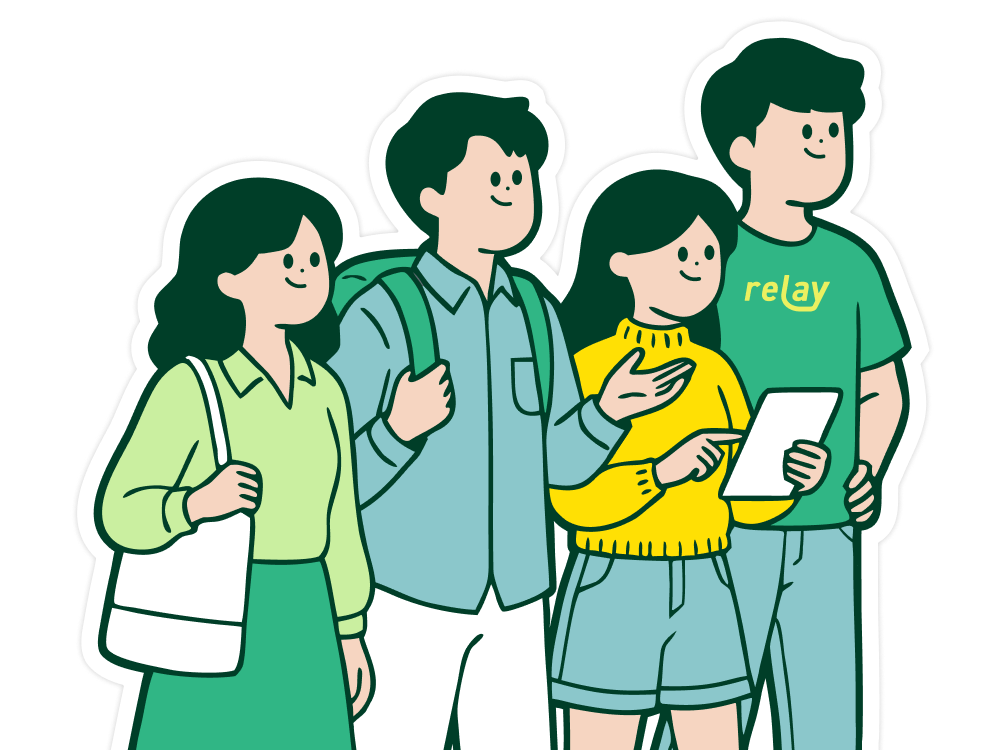
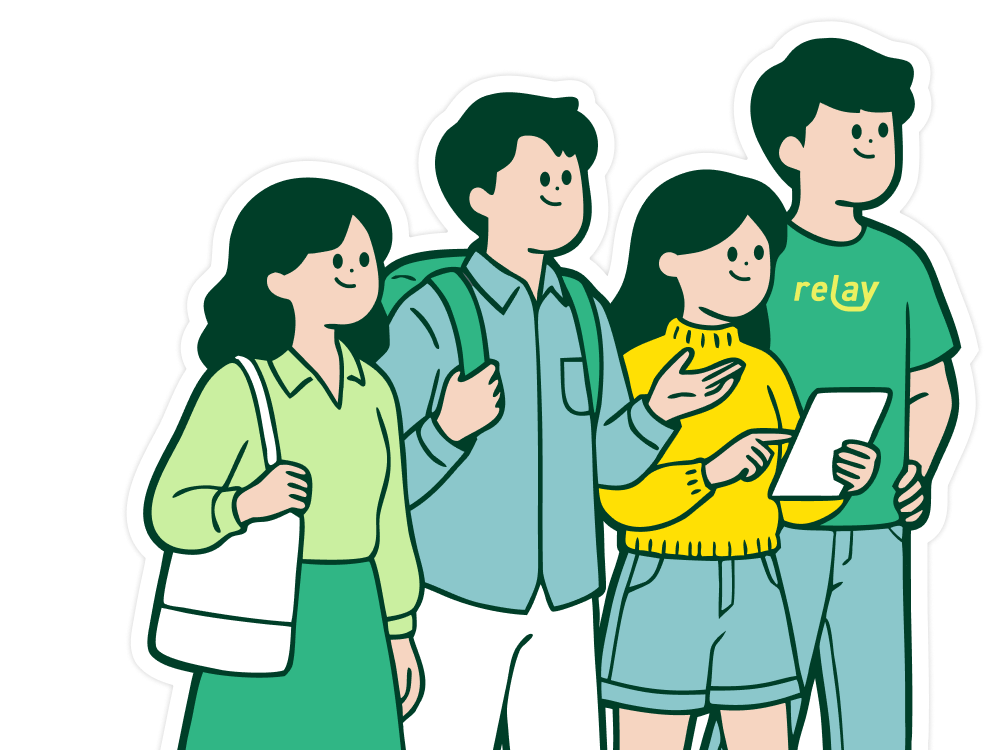
feat(hero): ship the title as hero-center.svg
Replace the live-rendered <h1> title with the official SVG that Figma
produced (examples/assets/hero-center.svg, 563 × 131, paths only,
fill #003E28). This guarantees pixel-for-pixel match with the design
file — no font substitution, no kerning drift, no need to keep
font-weight / letter-spacing in sync with Figma.

Structure:
  <h1 class="sr-only">relay Design System へようこそ</h1>   ← for screen readers
  <img class="docs-hero-title" src="…hero-center.svg" alt="…">  ← visual

The visually-hidden h1 keeps semantic heading + announcement for AT.
The img carries alt text for redundancy and for non-AT crawlers that
prefer alt over surrounding markup.

CSS:
  .docs-hero-title now styles the <img>: max-width capped at
  calc(var(--spacing) * 140) (= 560 px, near the SVG's natural 563)
  so it doesn't blow out on wide viewports; height: auto preserves
  the 4.3 : 1 aspect ratio.
  .sr-only is the standard "visually hidden but accessible" utility
  added alongside it.

diff --git a/examples/index.html b/examples/index.html
@@ -281,7 +281,7 @@
     .docs-hero {
       display: flex;
       align-items: end;
-      justify-content: space-between;
+      justify-content: center;
       gap: 0;
       width: 100%;
       background:
@@ -290,6 +290,9 @@
         radial-gradient(ellipse at center, #d9ebea 0%, #e7f6f6 70%);
       border-bottom-left-radius:  50% calc(var(--spacing) * 16);  /* 64 */
       border-bottom-right-radius: 50% calc(var(--spacing) * 16);
+      padding-top: calc(var(--spacing) * 16) ;
+      padding-left: calc(var(--spacing) * 16) ;
+      padding-right: calc(var(--spacing) * 16) ;
       overflow: hidden;
     }
     .docs-hero-illust {
@@ -307,20 +310,35 @@
       flex-direction: column;
       align-items: center;
       justify-content: center;
-      gap: calc(var(--spacing) * 4);          /* 16 */
+      max-width: 640px;
+      gap: calc(var(--spacing) * 6);          /* 16 */
       padding:
         calc(var(--spacing) * 16)             /* top 64 — clears curve cut-off */
         calc(var(--spacing) * 4)              /* x   16 */
         calc(var(--spacing) * 16);            /* bot 64 */
       text-align: center;
     }
+    /* Hero title is shipped as an SVG (assets/hero-center.svg, 563×131).
+     * .docs-hero-title styles the <img>. The semantic <h1> still exists
+     * adjacent to it for screen readers, hidden via .sr-only. */
     .docs-hero-title {
+      display: block;
+      width: 100%;
+      max-width: calc(var(--spacing) * 140);   /* 560 ≈ natural SVG 563 */
+      height: auto;
       margin: 0;
-      font-size: var(--text-xl);
-      line-height: var(--text-xl--line-height);
-      font-weight: var(--font-weight-bold);
-      color: var(--color-fg-high);
-      letter-spacing: var(--tracking-wide);
+    }
+    /* Visually hidden but still announced by screen readers */
+    .sr-only {
+      position: absolute;
+      width: 1px;
+      height: 1px;
+      padding: 0;
+      margin: -1px;
+      overflow: hidden;
+      clip: rect(0, 0, 0, 0);
+      white-space: nowrap;
+      border: 0;
     }
     .docs-hero-content .btn svg {
       width:  calc(var(--spacing) * 4);       /* 16 */
@@ -408,8 +426,12 @@
              src="./assets/hero-left.png" alt="" aria-hidden="true"
              width="921" height="750">
         <div class="docs-hero-content">
-          <h1 class="docs-hero-title">relay Design System<br>へようこそ</h1>
-          <a class="btn btn-sm btn-primary btn-outline"
+          <h1 class="sr-only">relay Design System へようこそ</h1>
+          <img class="docs-hero-title"
+               src="./assets/hero-center.svg"
+               alt="relay Design System へようこそ"
+               width="563" height="131">
+          <a class="btn btn-md btn-primary btn-outline"
              href="https://github.com/relay-development/relay-design-system"
              target="_blank" rel="noopener noreferrer">
             GitHub
